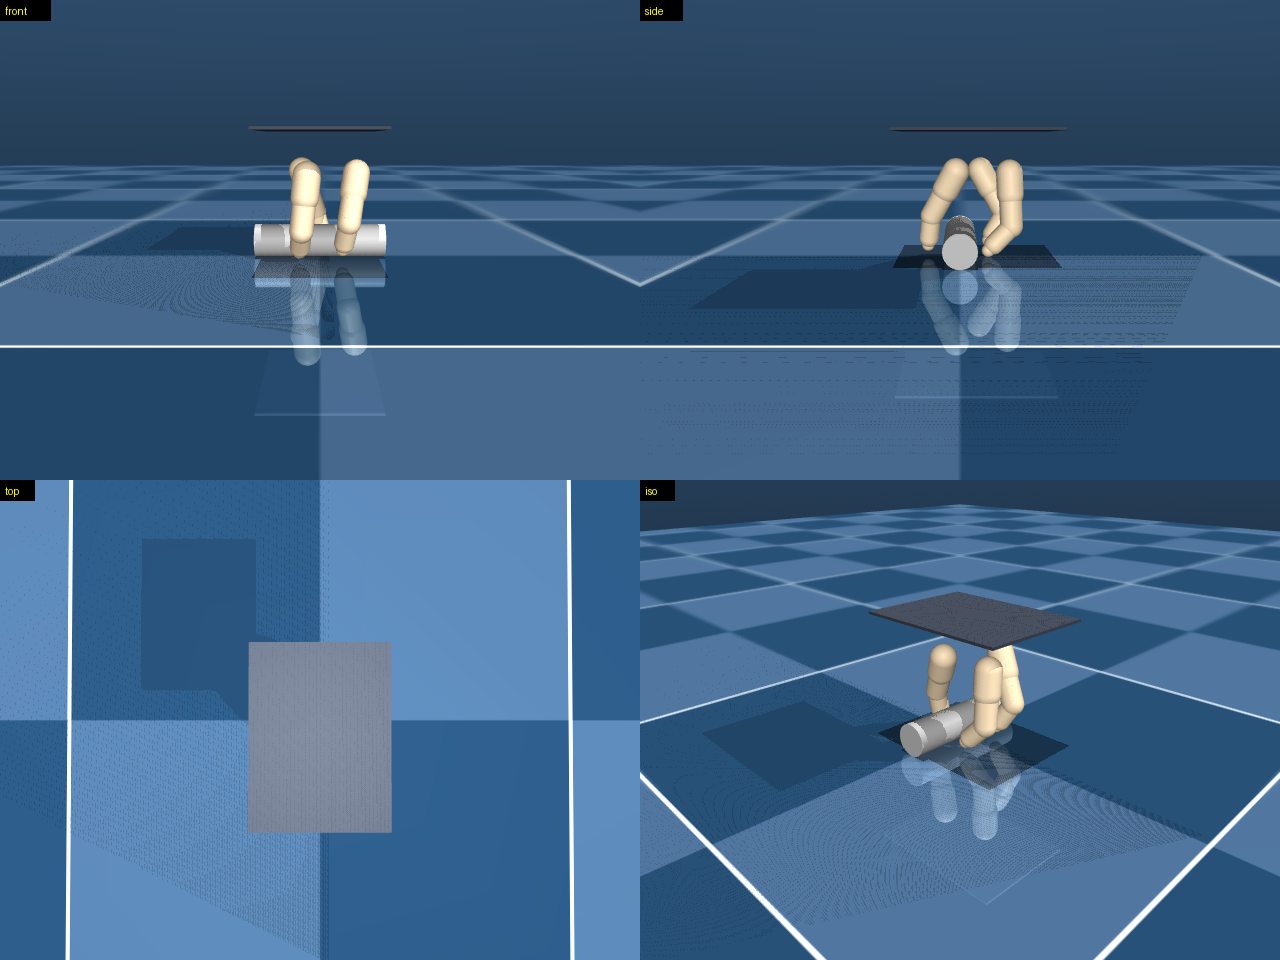
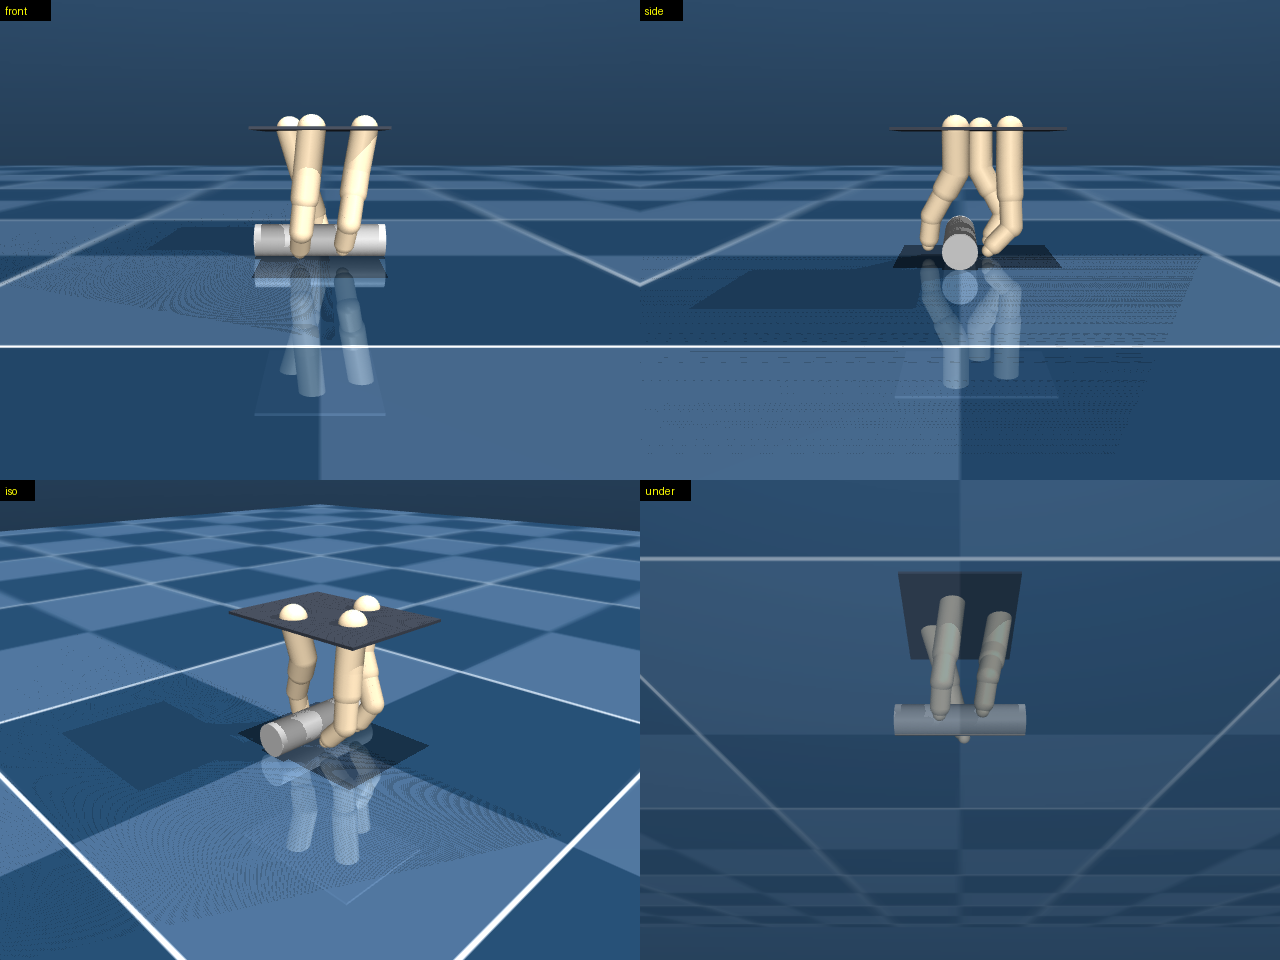
morph: draw the yaw link — it existed in the kinematics and nowhere else
The 32 mm segment was correct in the model (MCP anchor 32.0 mm off the yaw axis on
every finger, and sweeping yaw moves that anchor through a 36 mm arc) but carried no
geom, so the viewer showed each finger starting in mid-air below the palm with
nothing joining it. A link you cannot see is a link nobody can check, and it reads as
the coincident-joint bug even when the numbers say otherwise.

It now carries a capsule and its own mass: the yaw frame's placeholder inertial is
dropped so density derives the mass the way it does for every other phalanx.

diff --git a/src/morphohand/studies/scene_mutate.py b/src/morphohand/studies/scene_mutate.py
@@ -390,7 +390,21 @@ class Scene:
                         f"{tuple(ax)}. A link along the axis leaves the MCP joint ON it, which is "
                         f"the coincident-joint bug this parameter exists to fix.")
                 x, y, z = _parse_xyz(mcp.get("pos", "0 0 0"))
-                mcp.set("pos", _fmt_xyz(np.array([x, y, z]) + yaw_link * dirn))
+                end = np.array([x, y, z]) + yaw_link * dirn
+                mcp.set("pos", _fmt_xyz(end))
+                # DRAW the link. Without a geom the segment exists in the kinematics and nowhere
+                # else: the viewer shows the finger starting in mid-air below the palm, which
+                # reads as the two joints being coincident even though they are 32 mm apart. It
+                # also has to be here for the mass and the collision volume to be real, so the
+                # placeholder inertial on the yaw frame goes and density carries it like every
+                # other link.
+                for old in yawb.findall("geom"):
+                    yawb.remove(old)
+                for placeholder in yawb.findall("inertial"):
+                    yawb.remove(placeholder)
+                yawb.append(ET.Element("geom", {
+                    "type": "capsule", "fromto": f"0 0 0 {end[0]:.6f} {end[1]:.6f} {end[2]:.6f}",
+                    "size": "0.010", "material": "finger_mat"}))
         return self
 
     def set_mounts(self, mounts: dict[str, tuple[float, float]]) -> "Scene":
